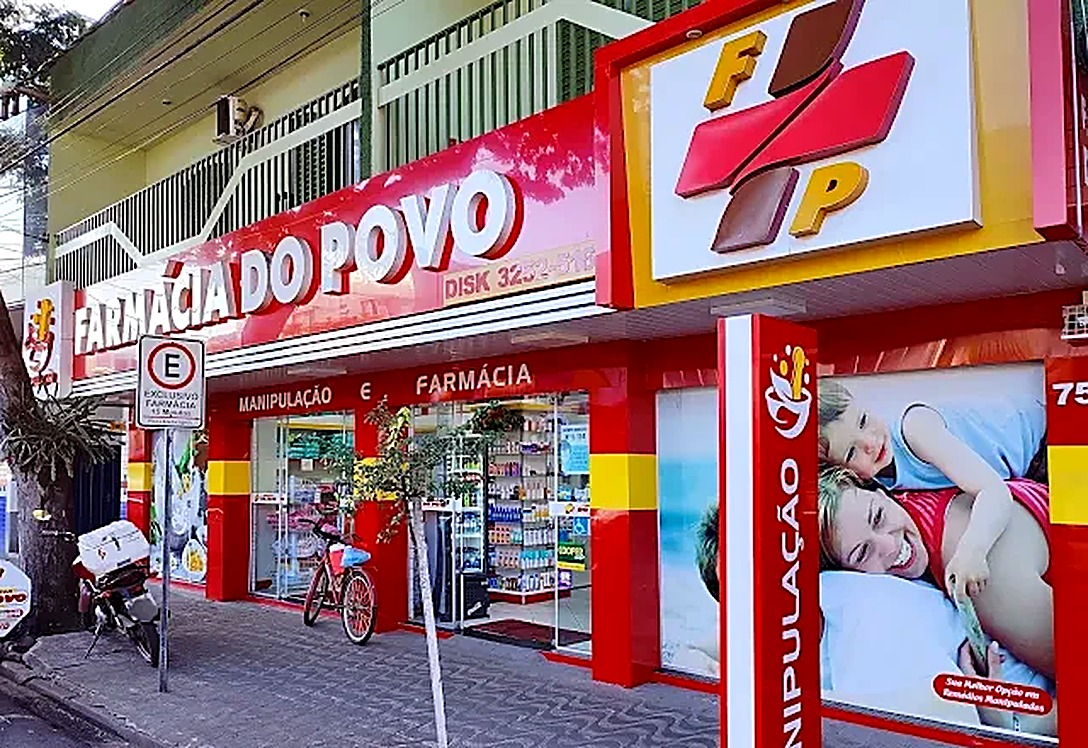
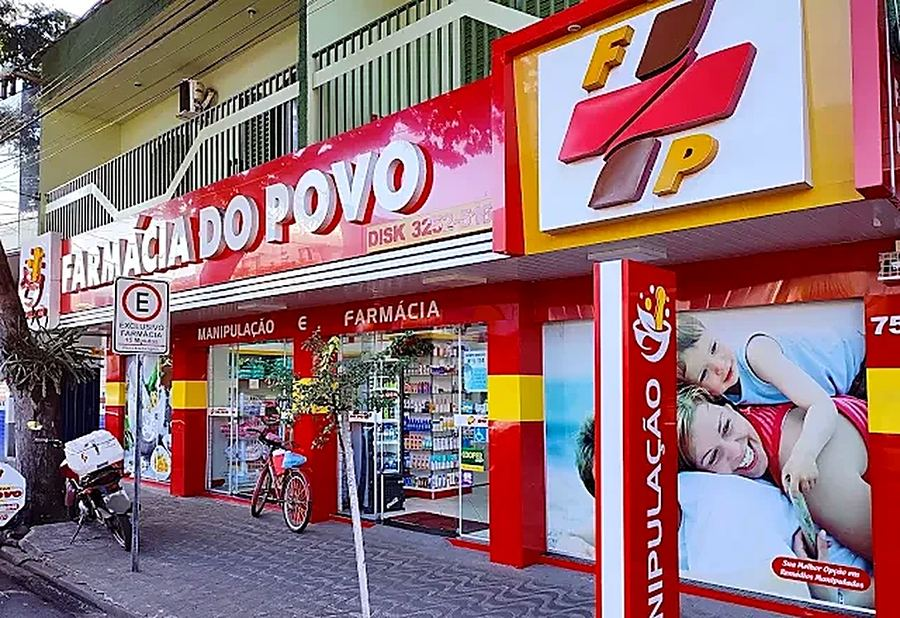
Reduz o peso da foto da fachada para a hero (900px, ~157KB)

diff --git a/components/BrandPanel.tsx b/components/BrandPanel.tsx
@@ -7,8 +7,8 @@ export function BrandPanel() {
         <Image
           src="/images/fachada-farmacia.jpg"
           alt="Fachada da Farmácia do Povo em Nova Esperança, PR"
-          width={1088}
-          height={748}
+          width={900}
+          height={618}
           sizes="(min-width: 1024px) 420px, 90vw"
           className="h-auto w-full"
           priority
